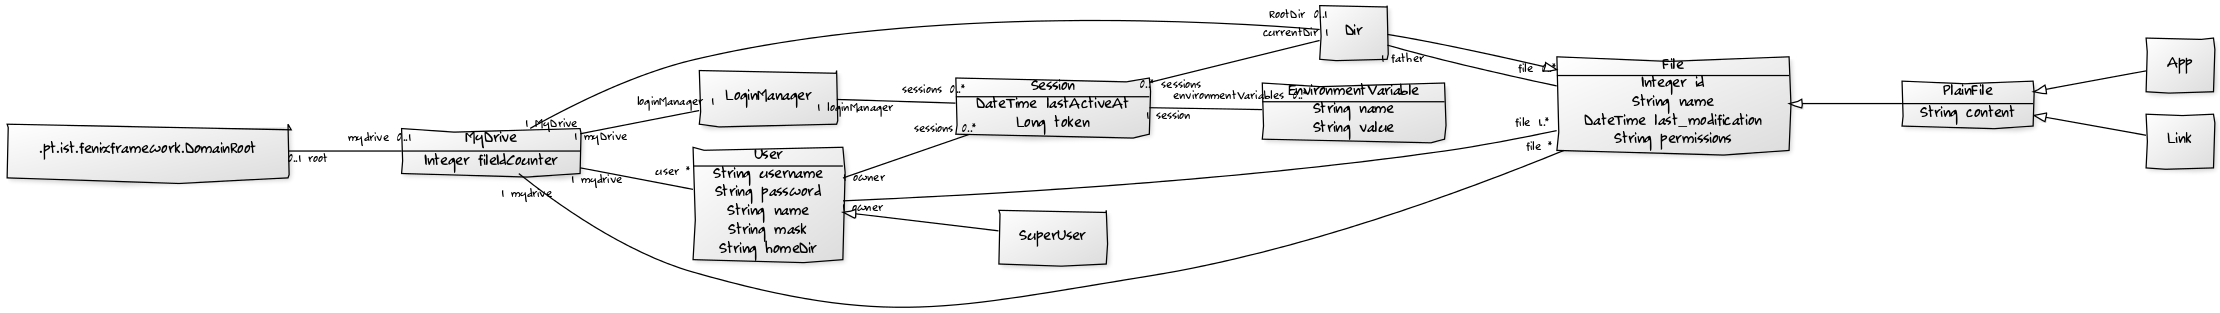
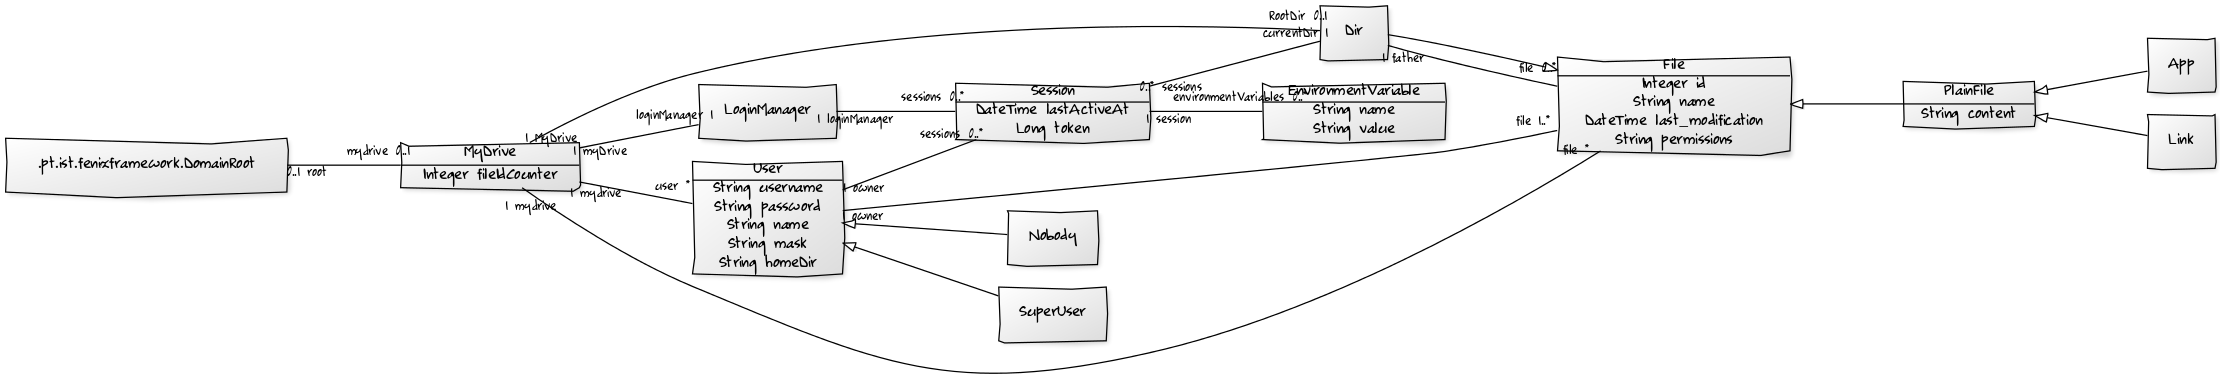
Generate nobody user stub

diff --git a/src/test/java/pt/tecnico/myDrive/service/CreateFileTest.java b/src/test/java/pt/tecnico/myDrive/service/CreateFileTest.java
@@ -1,7 +1,6 @@
 package pt.tecnico.myDrive.service;
 
 import static org.junit.Assert.assertEquals;
-import static org.junit.Assert.assertTrue;
 
 import java.math.BigInteger;
 import java.util.Random;
@@ -10,18 +9,13 @@ import org.junit.Test;
 
 import pt.tecnico.myDrive.domain.App;
 import pt.tecnico.myDrive.domain.Dir;
-import pt.tecnico.myDrive.domain.File;
 import pt.tecnico.myDrive.domain.Link;
-import pt.tecnico.myDrive.domain.LoginManager;
 import pt.tecnico.myDrive.domain.MyDrive;
 import pt.tecnico.myDrive.domain.PlainFile;
 import pt.tecnico.myDrive.domain.Session;
 import pt.tecnico.myDrive.domain.User;
 import pt.tecnico.myDrive.exception.FileAlreadyExistsException;
-import pt.tecnico.myDrive.exception.InvalidPathnameException;
 import pt.tecnico.myDrive.exception.InvalidTokenException;
-import pt.tecnico.myDrive.exception.NoPlainFileException;
-import pt.tecnico.myDrive.exception.PermissionDeniedException;
 import pt.tecnico.myDrive.exception.TypeDoesNotExistException;
 import pt.tecnico.myDrive.exception.WrongContentException;
 

diff --git a/src/main/java/pt/tecnico/myDrive/domain/Nobody.java b/src/main/java/pt/tecnico/myDrive/domain/Nobody.java
@@ -1,0 +1,9 @@
+package pt.tecnico.myDrive.domain;
+
+public class Nobody extends Nobody_Base {
+    
+    public Nobody() {
+        super();
+    }
+    
+}

diff --git a/src/main/java/pt/tecnico/myDrive/domain/MyDrive.java b/src/main/java/pt/tecnico/myDrive/domain/MyDrive.java
@@ -1,4 +1,3 @@
-
 package pt.tecnico.myDrive.domain;
 
 import java.util.HashSet;
